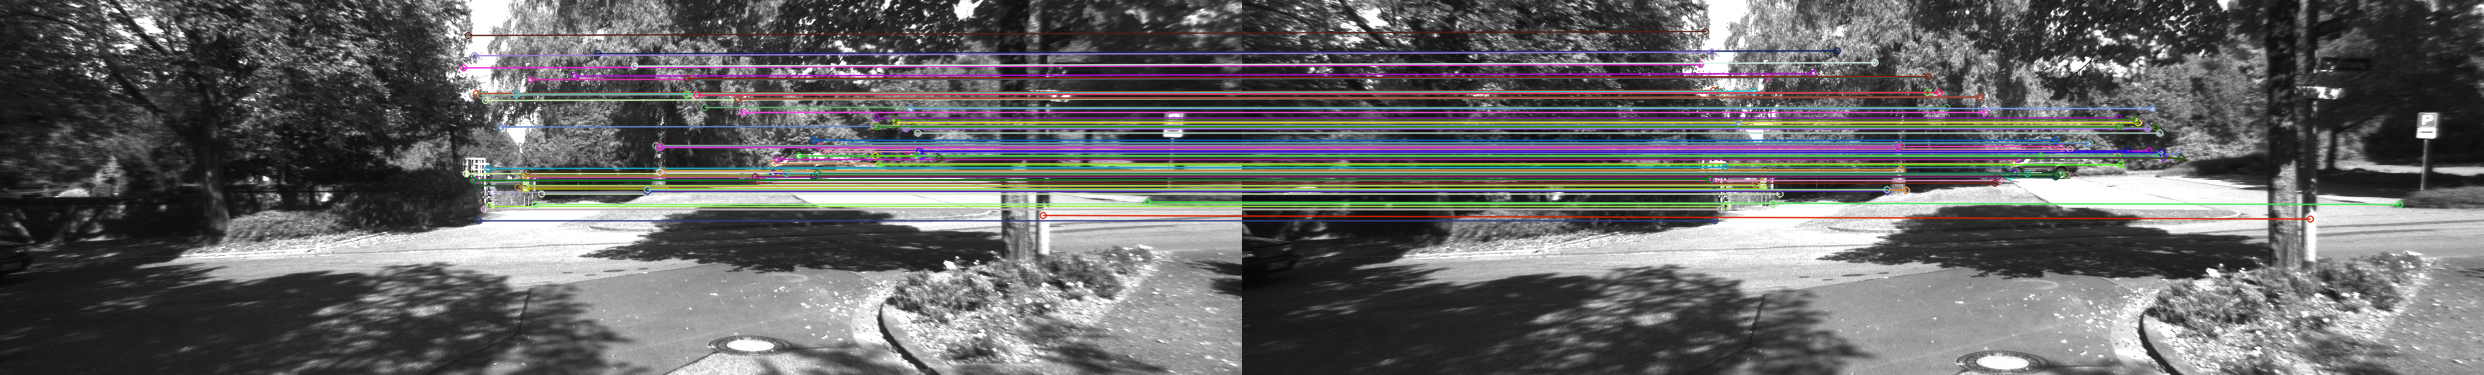
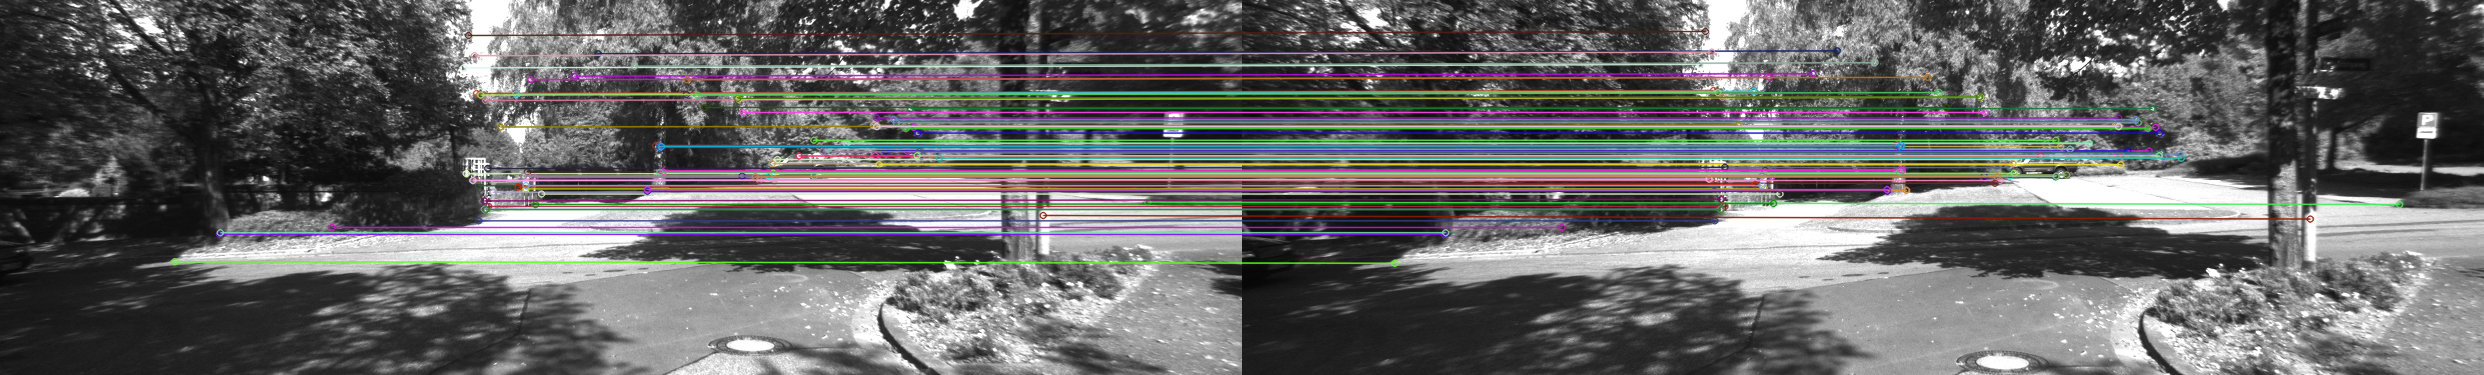
updated

Changed region(s): [[0.093, 0.1173, 0.899, 0.6453], [0.062, 0.6747, 0.558, 0.704], [0.868, 0.5573, 0.93, 0.5867]]

diff --git a/generate_report_data.py b/generate_report_data.py
@@ -40,7 +40,7 @@ def generate_stereo_examples():
 
 def generate_vo_results():
     print("\n--- Generating VO Results for 2 Sequences ---")
-    sequences = ['01', '03']
+    sequences = ['03', '04']
     output_dir = 'output/report/vo'
     os.makedirs(output_dir, exist_ok=True)
     

diff --git a/ablation_study.py b/ablation_study.py
@@ -17,7 +17,7 @@ def run_stereo_ablation():
     os.makedirs(output_dir, exist_ok=True)
 
     window_sizes = [7, 15]
-    methods = ['SAD', 'SSD']
+    methods = ['SAD', 'SSD', 'NCC']
     indices = [0, 5, 10, 15, 20] # 5 samples for ablation
 
     results = []
